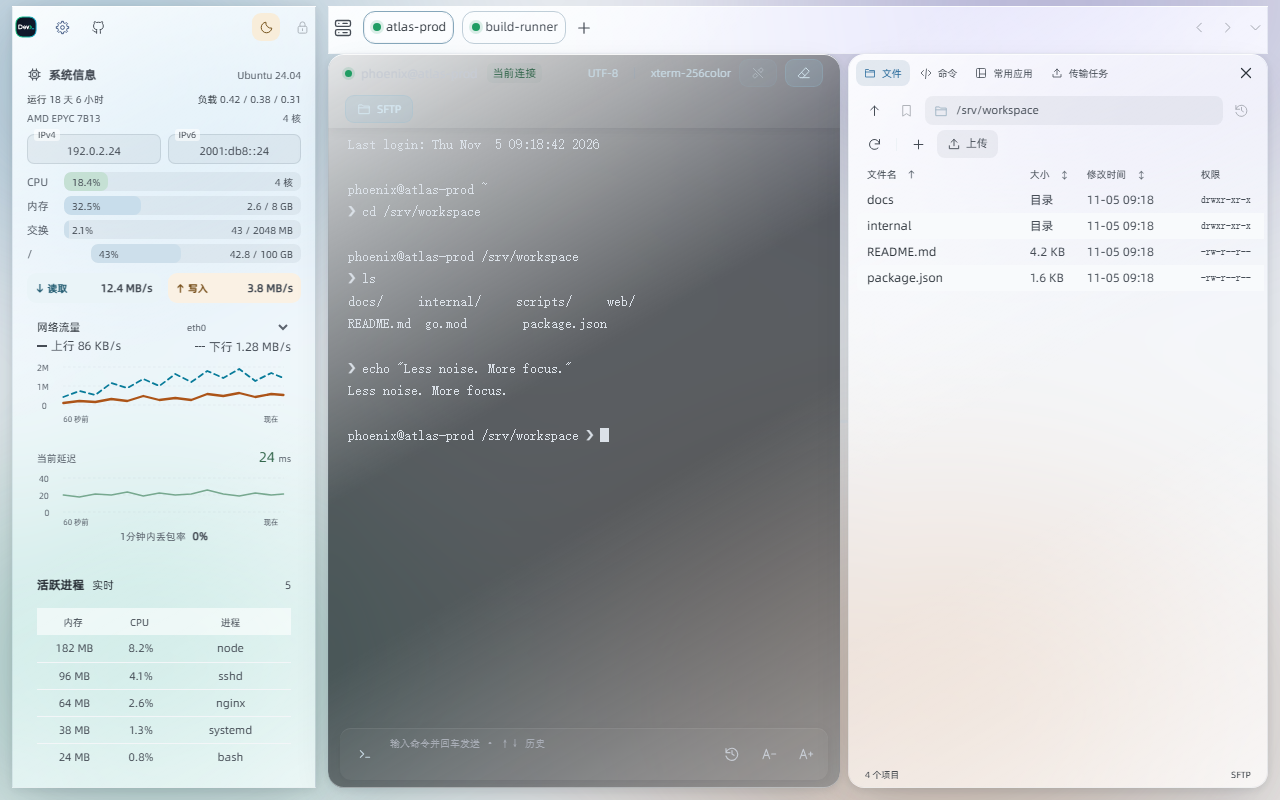
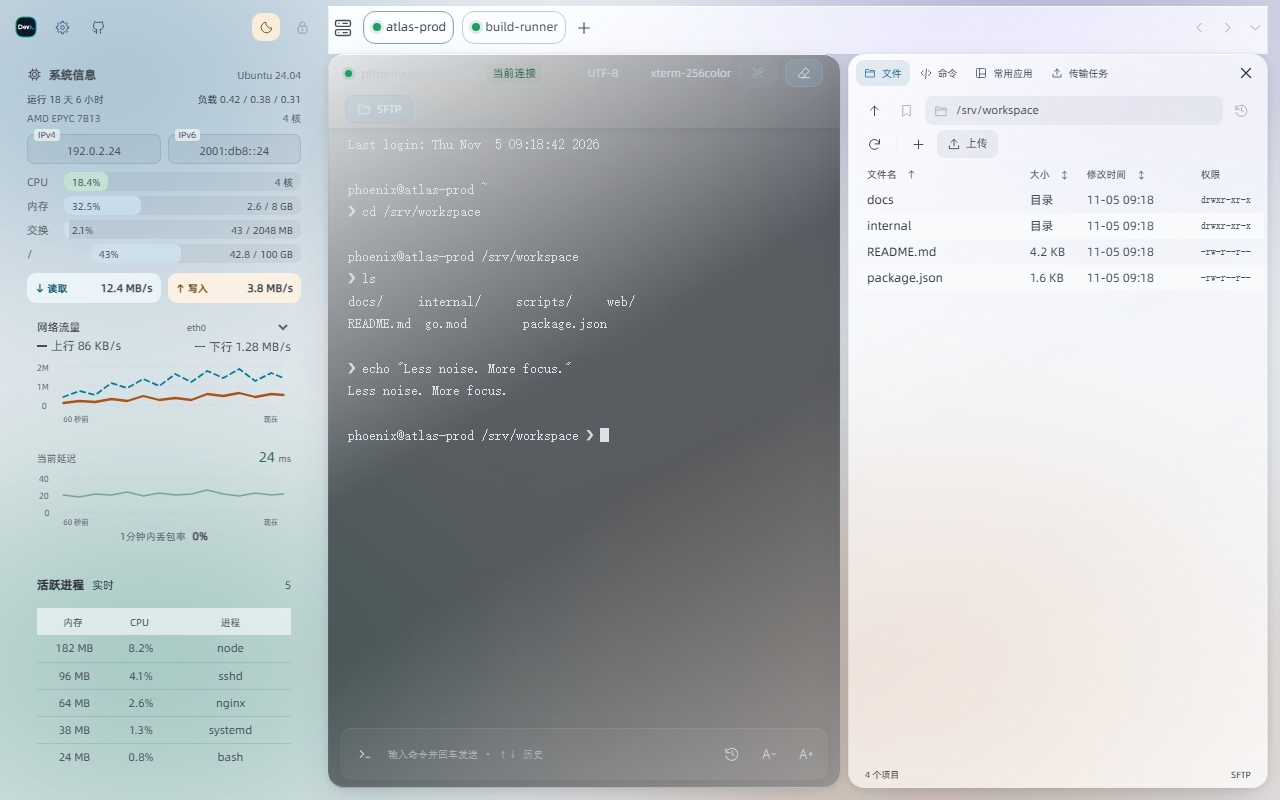
液态玻璃监控栏融入画布，玻璃面只留顶栏终端与文件面板

Changed region(s): [[0.0, 0.5938, 0.25, 1.0], [0.0, 0.0, 0.25, 0.4062], [0.3125, 0.9062, 0.375, 0.9688]]

diff --git a/web/css/ui-styles.css b/web/css/ui-styles.css
@@ -93,7 +93,13 @@
   filter:blur(80px) saturate(1.25); animation:liquid-drift 36s ease-in-out infinite alternate; }
 @keyframes liquid-drift { from { transform:translate3d(-2.5%,-1.5%,0) scale(1.05); } to { transform:translate3d(2.5%,2%,0) scale(1.14); } }
 [data-ui-style="frosted"] .sidebar { background:var(--glass-sheen),var(--glass-sidebar); backdrop-filter:blur(26px) saturate(1.7) brightness(1.04); -webkit-backdrop-filter:blur(26px) saturate(1.7) brightness(1.04); box-shadow:var(--glass-edge),inset -1px 0 var(--border),var(--shadow); }
-[data-ui-style="frosted"] .sidebar :is(.system-section,.host-card,.disk-section,.network-card,.process-card,.process-details,.disk-resources,.disk-io) { background:transparent; box-shadow:none; backdrop-filter:none; -webkit-backdrop-filter:none; border-color:var(--border); }
+/* 宽屏下监控栏不再有自己的玻璃板：内容直接浮在画布上；液态玻璃只在顶栏、
+   终端与文件面板这些特定区域保持完整玻璃面。窄屏抽屉仍保留面板避免压字。 */
+:root:not([data-narrow="true"])[data-ui-style="frosted"] .sidebar { background:transparent; box-shadow:none; backdrop-filter:none; -webkit-backdrop-filter:none; }
+/* 监控栏只在玻璃板层面分割一次：卡片全部融入栏面，不再各自成盒；
+   列表行内保留极淡的发丝线即可。 */
+[data-ui-style="frosted"] .sidebar :is(.system-section,.host-card,.disk-section,.network-card,.process-card,.process-details,.disk-resources,.disk-io) { background:transparent; border:0; border-radius:0; box-shadow:none; backdrop-filter:none; -webkit-backdrop-filter:none; }
+[data-ui-style="frosted"] .sidebar :is(.disk-row + .disk-row,.process-table tbody tr + tr,.metric + .metric,.file-status) { border-color:var(--border); }
 [data-ui-style="frosted"] .files-panel { background:var(--glass-sheen),var(--glass-surface); box-shadow:var(--glass-edge),var(--shadow); backdrop-filter:blur(22px) saturate(1.7); -webkit-backdrop-filter:blur(22px) saturate(1.7); }
 /* Keep fixed window controls relative to the viewport: backdrop-filter on the
    header itself would create a new containing block for the floating brand. */
